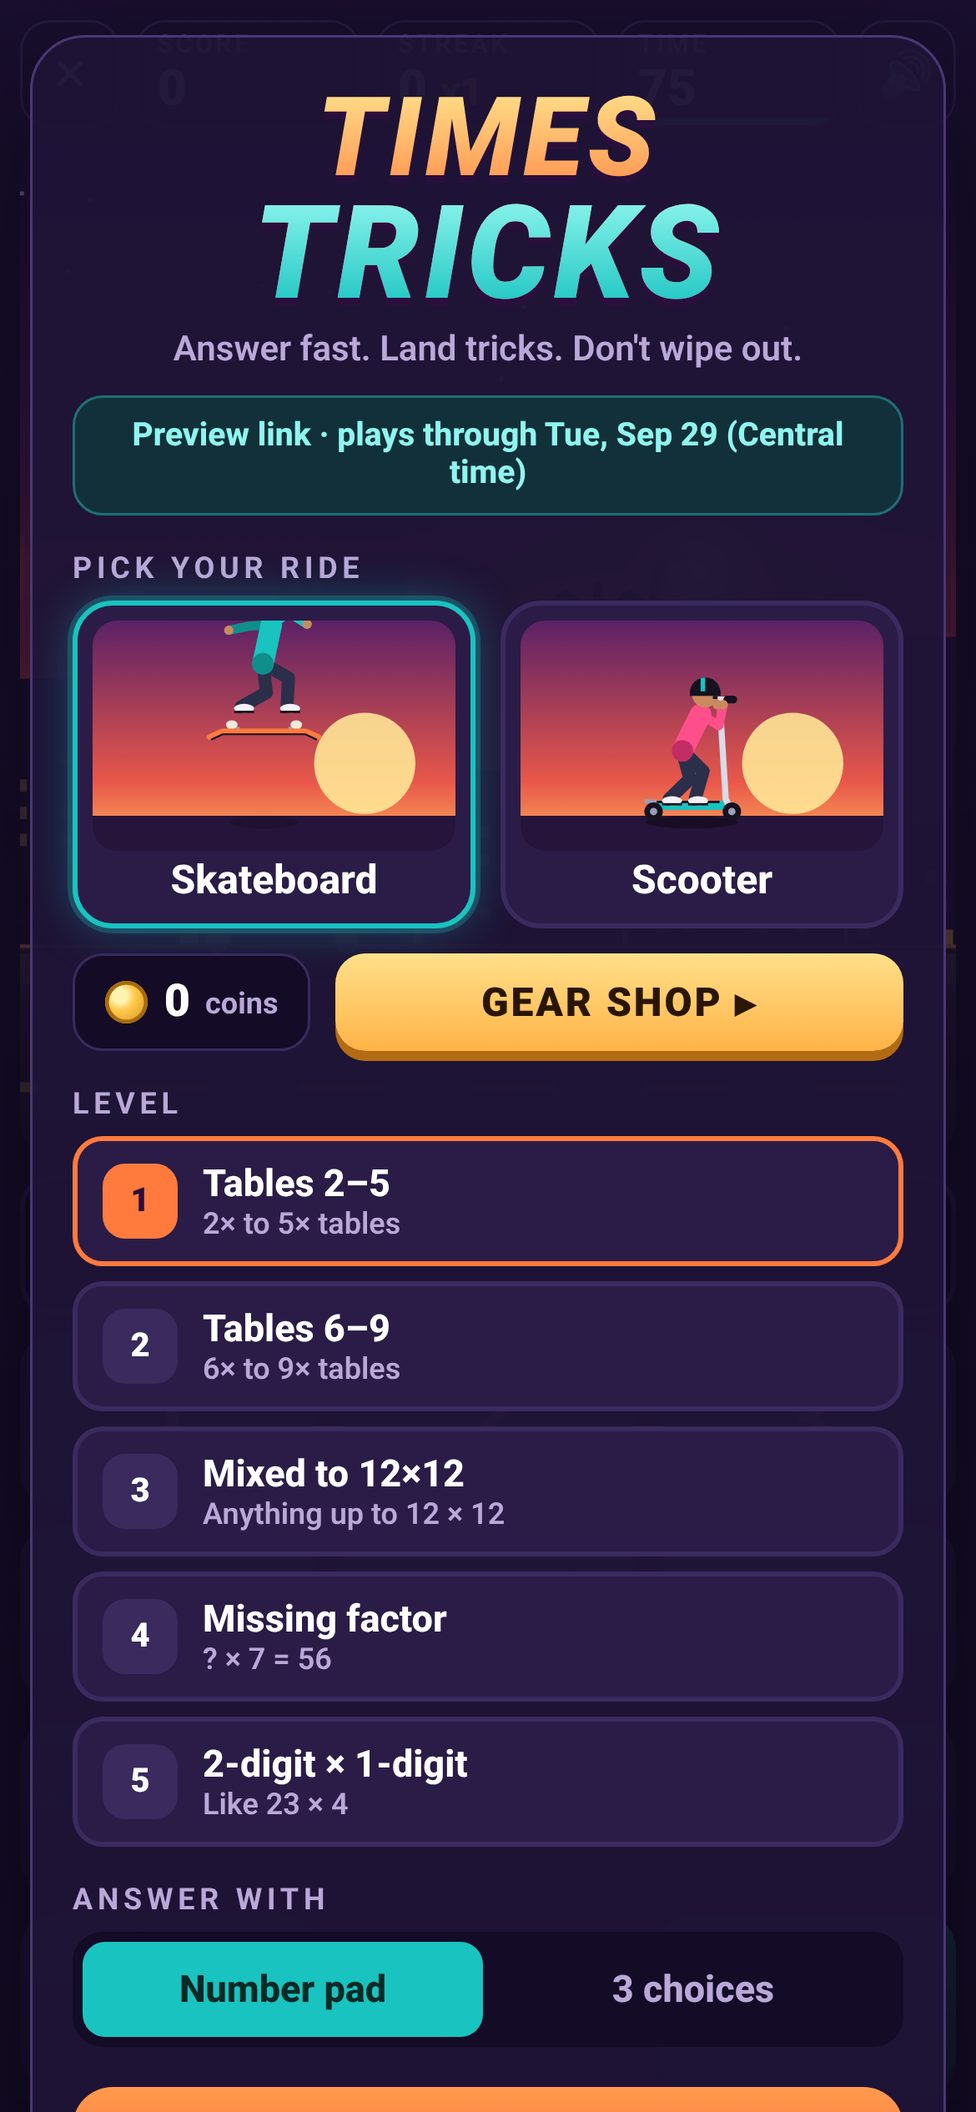
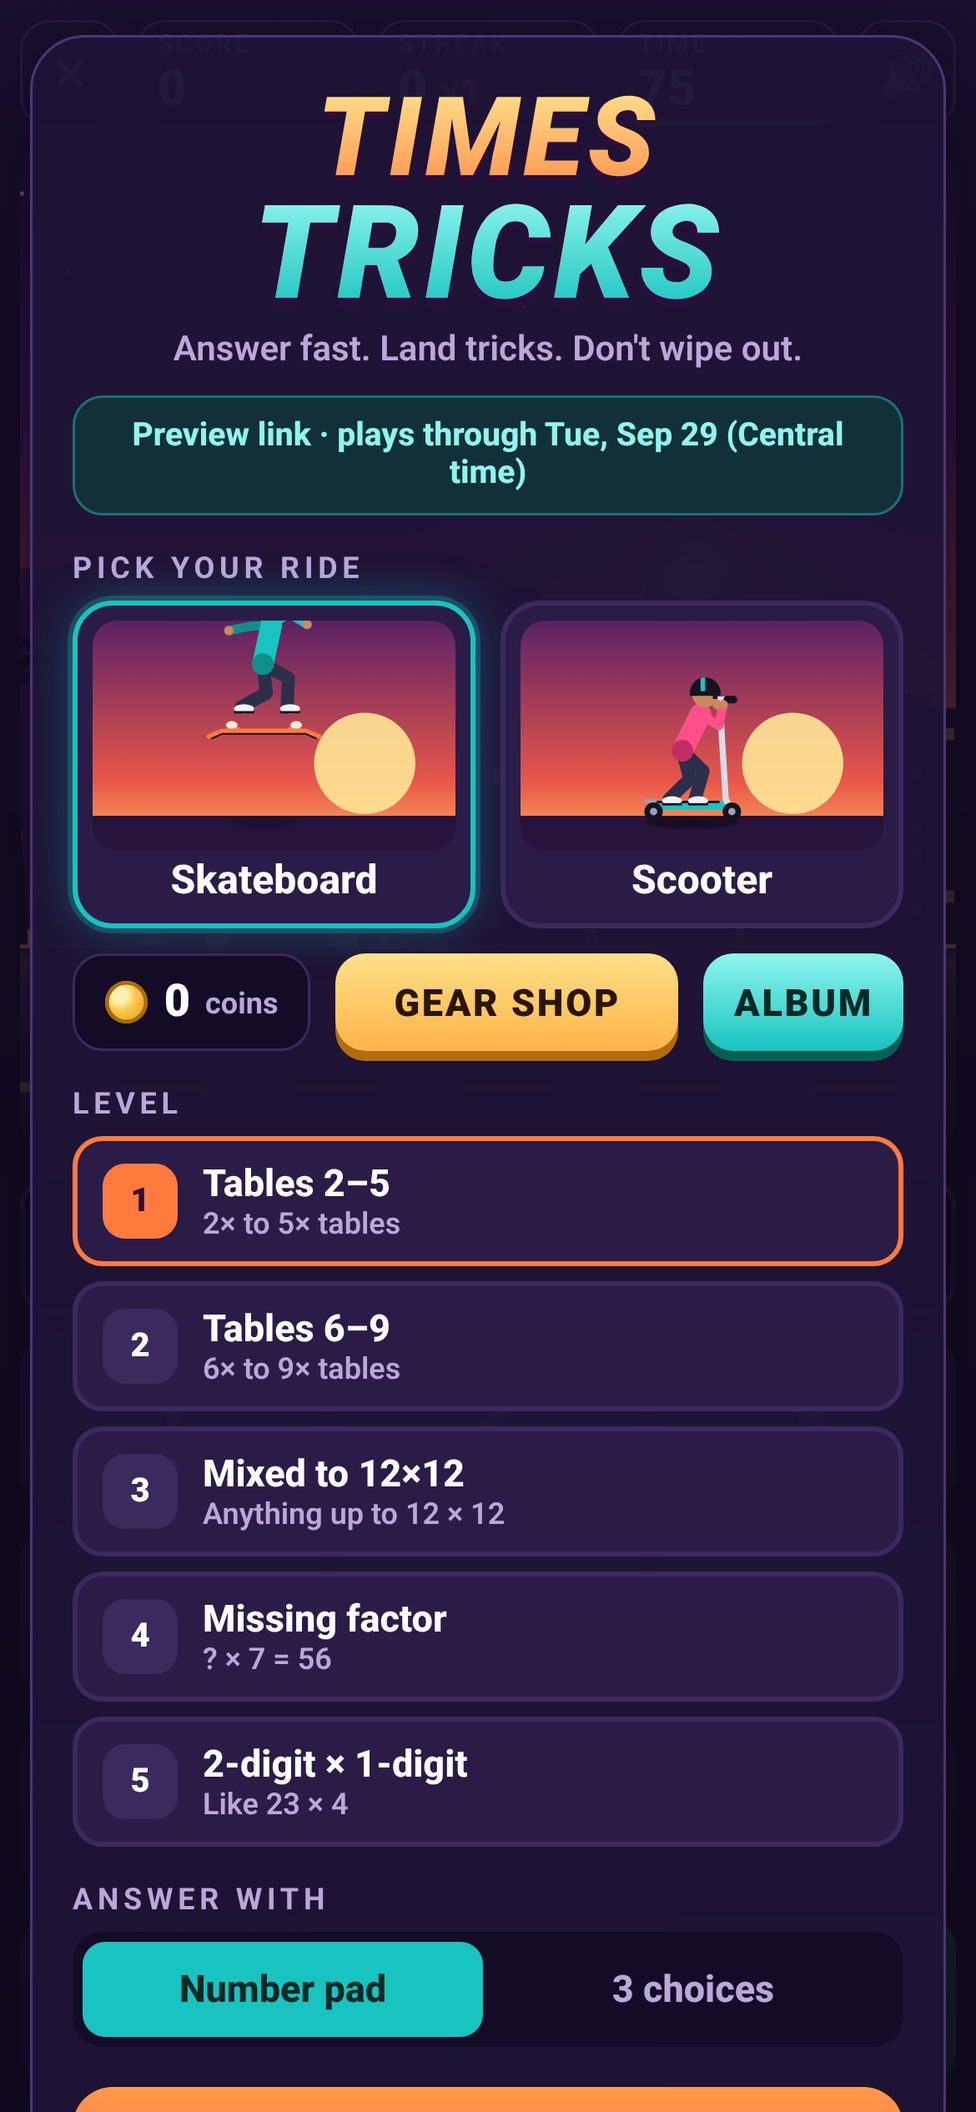
Snapshot album: streak 5/10/15/20 photo cards with unique tricks, album view, save/share, delete; cache-bust v=5

Changed region(s): [[0.4, 0.4368, 0.9231, 0.5304], [0.0, 0.2496, 0.0308, 0.3432], [0.9538, 0.2808, 0.9846, 0.3432]]

diff --git a/game.js b/game.js
@@ -241,6 +241,8 @@
   };
   window.__tt = { G: G, settings: settings, LEVELS: LEVELS, RIDERS: RIDERS };
   window.__tt.forceGrind = false;
+  window.__tt.snap = function (streak) { return takeSnapshot(streak || 5, G.trick); };
+  window.__tt.album = function () { return getAlbum().map(function (e) { return { id: e.id, rider: e.rider, trick: e.trick, streak: e.streak, level: e.level, kb: Math.round(e.img.length * 0.75 / 1024) }; }); };
   window.__tt.gearApi = function () { return { coins: getCoins(), gear: gear, stats: getStats(), look: lookFor(rider()), GEAR: GEAR }; };
 
   function level() { return LEVELS[settings.level - 1]; }
@@ -578,10 +580,11 @@
     }
     return pose;
   }
-  function drawRail(rx) {
-    var a = rx + (G.railL - G.grindTrav), b = rx + (G.railR - G.grindTrav), y = GROUND_Y - GRIND.railH;
+  function drawRail(rx) { drawRailAt(rx + (G.railL - G.grindTrav), rx + (G.railR - G.grindTrav), clamp(G.trickT / 0.08, 0, 1)); }
+  function drawRailAt(a, b, alpha) {
+    var y = GROUND_Y - GRIND.railH;
     if (b < -20 || a > VW + 20) return;
-    ctx.save(); ctx.globalAlpha = clamp(G.trickT / 0.08, 0, 1);
+    ctx.save(); ctx.globalAlpha = alpha;
     ctx.fillStyle = 'rgba(0,0,0,0.3)'; ctx.fillRect(a, GROUND_Y - 2, b - a, 3);
     ctx.fillStyle = '#1a1030';
     var n = Math.max(2, Math.round((b - a) / 55));
@@ -666,6 +669,7 @@
     G.coinParts.answers += COINS.perCorrect; G.coinParts.streak += (m - 1) * COINS.perMultStep;
     G.gateState = 'good'; G.boostSpeed = Math.max(G.speed, G.gateDist / 0.38);
     if (G.trick.grind) startGrind();
+    if (SNAP_STREAKS.indexOf(G.streak) >= 0) { var snapStreak = G.streak, perf = G.trick; setTimeout(function () { takeSnapshot(snapStreak, perf); }, 60); }
     el.banner.className = 'right'; flashDisplay('flashR');
     if (settings.mode === 'choices') el.choices.forEach(function (b) { if (Number(b.textContent) === p.answer) b.classList.add('good'); });
     pop('+' + pts + '  ' + G.trick.name, '#ffc94d');
@@ -826,6 +830,7 @@
   document.addEventListener('keydown', function (e) {
     if (G.screen === 'expired') return;
     if (G.screen === 'shop') { if (e.key === 'Escape') closeShop(); return; }
+    if (G.screen === 'album') { if (e.key === 'Escape') { if (viewing) closeViewer(); else closeAlbum(); } return; }
     if (G.screen === 'menu' && e.key === 'Enter') { startRound(); e.preventDefault(); return; }
     if (G.screen === 'end' && e.key === 'Enter') { startRound(); e.preventDefault(); return; }
     if (G.screen !== 'play') return;
@@ -882,7 +887,7 @@
       b.classList.toggle('sel', id === settings.level); b.querySelector('.b').textContent = best ? 'BEST ' + best : '';
     });
     $$('#modePick button').forEach(function (b) { b.classList.toggle('sel', b.getAttribute('data-mode') === settings.mode); });
-    $('#coinTotal').textContent = getCoins();
+    $('#coinTotal').textContent = getCoins(); refreshAlbumCount();
     var m = getMissed(), n = Object.keys(m).filter(function (k) { return level().fits(m[k]); }).length;
     $('#practiceNote').textContent = n ? n + ' tricky fact' + (n > 1 ? 's' : '') + ' saved for this level — they’ll show up more often.' : 'Missed facts get saved and come back more often until you nail them.';
   }
@@ -965,6 +970,151 @@
   $('#shopBack').addEventListener('click', closeShop);
   $('#shopClose').addEventListener('click', closeShop);
 
+
+  // ---------- snapshot album ----------
+  // At streaks in SNAP_STREAKS a photo card of the rider (equipped gear, frozen mid-trick) is drawn on an
+  // offscreen canvas, saved as a JPEG data URL in localStorage (tt_album, max ALBUM_CAP, oldest dropped).
+  // The trick on the card is always one not yet in the album for that ride; once all are used,
+  // it just avoids repeating the most recent one. Nothing is uploaded anywhere.
+  var SNAP_STREAKS = [5, 10, 15, 20], ALBUM_CAP = 30, SNAP_W = 600, SNAP_H = 800, SNAP_Q = 0.72;
+  function getAlbum() { try { var a = JSON.parse(localStorage.getItem('tt_album') || '[]'); return Array.isArray(a) ? a : []; } catch (e) { return []; } }
+  function saveAlbum(a) {
+    while (a.length > ALBUM_CAP) a.shift();
+    for (;;) {
+      try { localStorage.setItem('tt_album', JSON.stringify(a)); return true; }
+      catch (e) { if (a.length <= 1) return false; a.shift(); }   // storage full: drop oldest and retry
+    }
+  }
+  function rideTricks(r) { return r.tricks.concat(r.grinds || []); }
+  function chooseSnapTrick(r, performed, album) {
+    var all = rideTricks(r), mine = album.filter(function (e) { return e.rider === r.id; });
+    var used = mine.map(function (e) { return e.trick; });
+    var opts = all.filter(function (t) { return used.indexOf(t.id) < 0; });
+    if (!opts.length) { var lastId = mine.length ? mine[mine.length - 1].trick : null; opts = all.filter(function (t) { return t.id !== lastId; }); }
+    for (var i = 0; i < opts.length; i++) if (performed && opts[i].id === performed.id) return opts[i];
+    return pick(opts);
+  }
+  function peakPose(trick) { return trick.grind ? grindPose(trick, 0.46) : trickPose(trick.id, trick.id === 'ollie' || trick.id === 'hop' ? 0.42 : 0.5); }
+  function fmtDate(ms) { try { return new Date(ms).toLocaleDateString('en-US', { month: 'short', day: 'numeric', year: 'numeric' }); } catch (e) { var d = new Date(ms); return (d.getMonth() + 1) + '/' + d.getDate() + '/' + d.getFullYear(); } }
+  function renderSnapCard(dressedRider, trick, entry) {
+    var W = SNAP_W, H = SNAP_H, cnv = document.createElement('canvas'); cnv.width = W; cnv.height = H;
+    var x = cnv.getContext('2d');
+    var saved = { ctx: ctx, VW: VW, TOP: TOP, wx: G.worldX, parts: G.particles };
+    var LVW = 260, k = W / LVW, LVH = H / k, rx = LVW * 0.5;
+    try {
+      ctx = x; VW = LVW; TOP = 400 - LVH; G.worldX = 400 + Math.random() * 2600; G.particles = [];
+      x.setTransform(k, 0, 0, k, 0, -TOP * k);
+      drawSky(entry.t / 1000);
+      drawCity(farCity, 0.08, GROUND_Y - 10, '#3d1d52', 'rgba(255,190,120,0.35)', 0);
+      drawCity(nearCity, 0.25, GROUND_Y - 4, '#26143a', 'rgba(255,210,130,0.55)', 300);
+      drawProps(); drawLamps(); drawGround();
+      // motion streaks
+      x.strokeStyle = 'rgba(255,255,255,0.28)'; x.lineWidth = 1.6; x.lineCap = 'round';
+      for (var i = 0; i < 6; i++) { var ly = GROUND_Y - 40 - i * 16, lx = rx - 70 - (i % 3) * 18; x.beginPath(); x.moveTo(lx, ly); x.lineTo(lx - 40 - (i % 2) * 20, ly); x.stroke(); }
+      if (trick.grind) {
+        drawRailAt(rx - 100, rx + 100, 1);
+        x.fillStyle = '#ffe28a';
+        for (var s = 0; s < 18; s++) { var sx = rx - 14 - Math.random() * 40, sy = GROUND_Y - GRIND.railH - Math.random() * 14; x.fillRect(sx, sy, 1.6, 1.6); }
+      }
+      drawRider(x, rx, GROUND_Y, RIDER_SCALE * 1.05, dressedRider, peakPose(trick));
+    } finally { ctx = saved.ctx; VW = saved.VW; TOP = saved.TOP; G.worldX = saved.wx; G.particles = saved.parts; }
+    // overlays in pixel space
+    x.setTransform(1, 0, 0, 1, 0, 0);
+    var tg = x.createLinearGradient(0, 0, 0, 200); tg.addColorStop(0, 'rgba(20,10,38,0.75)'); tg.addColorStop(1, 'rgba(20,10,38,0)'); x.fillStyle = tg; x.fillRect(0, 0, W, 200);
+    var bg = x.createLinearGradient(0, H - 190, 0, H); bg.addColorStop(0, 'rgba(20,10,38,0)'); bg.addColorStop(0.45, 'rgba(20,10,38,0.8)'); bg.addColorStop(1, 'rgba(20,10,38,0.95)'); x.fillStyle = bg; x.fillRect(0, H - 190, W, 190);
+    // streak badge
+    var bgrad = x.createLinearGradient(0, 28, 0, 100); bgrad.addColorStop(0, '#ffb35c'); bgrad.addColorStop(1, '#ff4f8b');
+    x.save(); x.shadowColor = 'rgba(0,0,0,0.45)'; x.shadowBlur = 14; x.shadowOffsetY = 4;
+    roundRectC(x, 28, 28, 300, 74, 18); x.fillStyle = bgrad; x.fill(); x.restore();
+    x.lineWidth = 3; x.strokeStyle = 'rgba(255,255,255,0.8)'; roundRectC(x, 28, 28, 300, 74, 18); x.stroke();
+    x.fillStyle = '#fff'; x.font = 'italic 900 46px ' + fontFam; x.textBaseline = 'middle'; x.textAlign = 'center';
+    x.fillText('STREAK ' + entry.streak, 178, 67);
+    // trick name
+    x.textAlign = 'left'; x.font = 'italic 900 50px ' + fontFam; x.lineWidth = 8; x.strokeStyle = '#1a1030'; x.lineJoin = 'round';
+    var tn = trick.name; while (x.measureText(tn).width > W - 60 && parseInt(x.font.match(/(\d+)px/)[1], 10) > 26) x.font = 'italic 900 ' + (parseInt(x.font.match(/(\d+)px/)[1], 10) - 4) + 'px ' + fontFam;
+    x.strokeText(tn, 30, 150); x.fillStyle = '#ffc94d'; x.fillText(tn, 30, 150);
+    // footer
+    var lg = x.createLinearGradient(0, H - 110, 0, H - 70); lg.addColorStop(0, '#ffe08a'); lg.addColorStop(1, '#ff7a3d');
+    x.font = 'italic 900 34px ' + fontFam; x.fillStyle = lg; x.fillText('TIMES', 30, H - 92);
+    var w1 = x.measureText('TIMES ').width, lg2 = x.createLinearGradient(0, H - 110, 0, H - 70); lg2.addColorStop(0, '#8ff5ee'); lg2.addColorStop(1, '#19c3c0');
+    x.fillStyle = lg2; x.fillText('TRICKS', 30 + w1, H - 92);
+    x.font = '700 22px ' + fontFam; x.fillStyle = '#e6dcf7';
+    x.fillText(fmtDate(entry.t) + '  ·  Level ' + entry.level + ': ' + entry.levelName, 30, H - 52);
+    x.textAlign = 'right'; x.font = '800 20px ' + fontFam; x.fillStyle = '#b9a8d8'; x.fillText(dressedRider.name.toUpperCase(), W - 30, H - 92);
+    // frame
+    x.lineWidth = 4; x.strokeStyle = 'rgba(255,255,255,0.35)'; roundRectC(x, 10, 10, W - 20, H - 20, 22); x.stroke();
+    return cnv.toDataURL('image/jpeg', SNAP_Q);
+  }
+  function takeSnapshot(streak, performed) {
+    var r = rider(), album = getAlbum(), trick = chooseSnapTrick(r, performed, album), now = Date.now();
+    var entry = { id: now.toString(36) + Math.random().toString(36).slice(2, 6), t: now, rider: r.id, trick: trick.id, trickName: trick.name, streak: streak, level: settings.level, levelName: level().name };
+    try { entry.img = renderSnapCard(dress(r), trick, entry); } catch (e) { console.warn('snapshot failed', e); return null; }
+    album.push(entry);
+    if (!saveAlbum(album)) return null;
+    showSnapToast(); refreshAlbumCount();
+    return entry;
+  }
+  var toastTimer = null;
+  function showSnapToast() {
+    var t = $('#snapToast'); t.classList.add('show'); clearTimeout(toastTimer);
+    toastTimer = setTimeout(function () { t.classList.remove('show'); }, 1600);
+  }
+  function refreshAlbumCount() { var n = getAlbum().length; $('#albumCount').textContent = n; $('#albumCount').classList.toggle('hidden', !n); }
+
+  // album screens
+  function openAlbum() {
+    if (pilotExpired()) { showPilotEnded(); return; }
+    G.screen = 'album'; el.menu.classList.remove('show'); $('#album').classList.add('show'); buildAlbum();
+  }
+  function closeAlbum() { closeViewer(); $('#album').classList.remove('show'); toMenu(); }
+  function buildAlbum() {
+    var a = getAlbum().slice().reverse(), grid = $('#albumGrid'); grid.innerHTML = '';
+    $('#albumSub').textContent = a.length ? a.length + ' of ' + ALBUM_CAP + ' snapshots · newest first' : '';
+    $('#albumEmpty').classList.toggle('hidden', a.length > 0);
+    a.forEach(function (e) {
+      var b = document.createElement('button'); b.className = 'snap'; b.setAttribute('data-id', e.id);
+      var im = document.createElement('img'); im.src = e.img; im.alt = 'Streak ' + e.streak + ' ' + e.trickName; b.appendChild(im);
+      var cap = document.createElement('span'); cap.textContent = 'STREAK ' + e.streak + ' · ' + e.trickName; b.appendChild(cap);
+      b.addEventListener('click', function () { openViewer(e.id); });
+      grid.appendChild(b);
+    });
+  }
+  var viewing = null, delArmed = false, delTimer = null;
+  function openViewer(id) {
+    var e = getAlbum().filter(function (x) { return x.id === id; })[0]; if (!e) return;
+    viewing = e; delArmed = false; $('#delSnap').textContent = 'DELETE'; $('#delSnap').classList.remove('armed');
+    $('#viewImg').src = e.img;
+    $('#viewCap').textContent = 'Streak ' + e.streak + ' · ' + e.trickName + ' · ' + fmtDate(e.t) + ' · Level ' + e.level;
+    $('#saveHint').textContent = 'Tip: you can also press and hold the picture to save it.';
+    $('#viewer').classList.add('show');
+  }
+  function closeViewer() { $('#viewer').classList.remove('show'); viewing = null; }
+  function dataURLtoBlob(u) { var p = u.split(','), bin = atob(p[1]), arr = new Uint8Array(bin.length); for (var i = 0; i < bin.length; i++) arr[i] = bin.charCodeAt(i); return new Blob([arr], { type: 'image/jpeg' }); }
+  function saveViewing() {
+    if (!viewing) return;
+    var name = 'times-tricks-streak' + viewing.streak + '-' + viewing.trick + '.jpg', file = null;
+    try { file = new File([dataURLtoBlob(viewing.img)], name, { type: 'image/jpeg' }); } catch (e) { file = null; }
+    if (file && navigator.canShare && navigator.share && navigator.canShare({ files: [file] })) {
+      navigator.share({ files: [file], title: 'Times Tricks snapshot' }).catch(function () {});  // share sheet → "Save Image"
+      return;
+    }
+    var a = document.createElement('a'); a.href = viewing.img; a.download = name; document.body.appendChild(a); a.click(); a.remove();
+    if (/iPhone|iPad|iPod/.test(navigator.userAgent)) $('#saveHint').textContent = 'Press and hold the picture, then tap “Save to Photos”.';
+    else $('#saveHint').textContent = 'Saved to your downloads.';
+  }
+  function deleteViewing() {
+    if (!viewing) return;
+    if (!delArmed) { delArmed = true; $('#delSnap').textContent = 'TAP AGAIN TO DELETE'; $('#delSnap').classList.add('armed'); clearTimeout(delTimer); delTimer = setTimeout(function () { delArmed = false; $('#delSnap').textContent = 'DELETE'; $('#delSnap').classList.remove('armed'); }, 3000); return; }
+    var id = viewing.id; saveAlbum(getAlbum().filter(function (x) { return x.id !== id; }));
+    closeViewer(); buildAlbum(); refreshAlbumCount();
+  }
+  $('#albumBtn').addEventListener('click', openAlbum);
+  $('#albumBack').addEventListener('click', closeAlbum);
+  $('#albumClose').addEventListener('click', closeAlbum);
+  $('#viewBack').addEventListener('click', closeViewer);
+  $('#saveSnap').addEventListener('click', saveViewing);
+  $('#delSnap').addEventListener('click', deleteViewing);
+
   // ---------- loop ----------
   var last = performance.now();
   function frame(now) {
@@ -1000,7 +1150,7 @@
   function pilotExpired() { return !!pilot && Date.now() > pilot.until.ms; }
   function showPilotEnded() {
     G.screen = 'expired'; setPhase('idle');
-    [el.menu, el.end, el.pause, $('#shop')].forEach(function (o) { o.classList.remove('show'); });
+    [el.menu, el.end, el.pause, $('#shop'), $('#album'), $('#viewer')].forEach(function (o) { o.classList.remove('show'); });
     el.banner.className = 'hide'; $('#pilotEnded').classList.add('show');
   }
   function pilotLabel() {

diff --git a/index.html b/index.html
@@ -10,7 +10,7 @@
 <title>Times Tricks — Multiplication Street Runner</title>
 <link rel="icon" href="icon.svg" type="image/svg+xml" />
 <link rel="apple-touch-icon" href="apple-touch-icon.png" />
-<link rel="stylesheet" href="style.css?v=4" />
+<link rel="stylesheet" href="style.css?v=5" />
 </head>
 <body>
 <div id="app">
@@ -24,6 +24,7 @@
 
   <section id="scene">
     <canvas id="cv"></canvas>
+    <div id="snapToast" class="snapToast">📸 Snapshot saved!</div>
     <div id="banner"><div id="prompt">&nbsp;</div><div id="gateBar"><i></i></div></div>
   </section>
 
@@ -53,7 +54,8 @@
       <div id="riderPick" class="riders"></div>
       <div class="coinRow">
         <div class="coinPill"><i class="coin"></i><b id="coinTotal">0</b><small>coins</small></div>
-        <button id="shopBtn" class="shopBtn">GEAR SHOP ▸</button>
+        <button id="shopBtn" class="shopBtn">GEAR SHOP</button>
+        <button id="albumBtn" class="shopBtn albumBtn">ALBUM <span id="albumCount" class="cnt hidden">0</span></button>
       </div>
 
       <h2>Level</h2>
@@ -117,11 +119,36 @@
     </div>
   </div>
 
+  <!-- Snapshot album (stored only on this device) -->
+  <div id="album" class="overlay">
+    <div class="panel shopPanel">
+      <div class="shopHead">
+        <h2 class="endTitle">ALBUM</h2>
+        <button id="albumClose" class="hbtn" aria-label="Close album">✕</button>
+      </div>
+      <p id="albumSub" class="note shopHint"></p>
+      <p id="albumEmpty" class="note albumEmpty">No snapshots yet. Hit a <b>5 streak</b> in a round and your rider's best trick gets photographed here. Another at 10, 15 and 20!</p>
+      <div id="albumGrid" class="albumGrid"></div>
+      <button id="albumBack" class="big alt">BACK</button>
+    </div>
+  </div>
+  <div id="viewer" class="overlay viewer">
+    <div class="viewWrap">
+      <img id="viewImg" alt="Snapshot" />
+      <p id="viewCap" class="viewCap"></p>
+      <div class="viewBtns">
+        <button id="saveSnap" class="big">SAVE TO PHOTOS</button>
+        <div class="viewRow"><button id="delSnap" class="big alt del">DELETE</button><button id="viewBack" class="big alt">BACK</button></div>
+      </div>
+      <p id="saveHint" class="note"></p>
+    </div>
+  </div>
+
   <!-- Pause -->
   <div id="pause" class="overlay">
     <div class="panel small"><h2 class="endTitle">PAUSED</h2><button id="resumeBtn" class="big">RESUME ▶</button></div>
   </div>
 </div>
-<script src="game.js?v=4"></script>
+<script src="game.js?v=5"></script>
 </body>
 </html>

diff --git a/style.css b/style.css
@@ -169,3 +169,29 @@ h2{font-size:12px;letter-spacing:.16em;color:var(--muted);margin:14px 0 6px;text
 .ibtn.buy:disabled{background:#3a2a5e;color:#8f80ad;box-shadow:none}
 .ibtn.equip{background:linear-gradient(#26d4b4,#12a08c);color:#062a26;box-shadow:0 3px 0 #0a5f53}
 .ibtn:active:not(:disabled){transform:translateY(2px);box-shadow:none}
+
+/* Snapshot album */
+.snapToast{position:absolute;left:50%;bottom:14px;transform:translate(-50%,20px);opacity:0;pointer-events:none;
+  background:rgba(21,12,38,.9);border:2px solid var(--gold);color:#fff;font-weight:900;font-size:15px;padding:7px 14px;border-radius:999px;
+  transition:opacity .2s,transform .2s;white-space:nowrap}
+.snapToast.show{opacity:1;transform:translate(-50%,0)}
+.albumBtn{flex:0 0 auto;padding:10px 12px;background:linear-gradient(#8ff5ee,#19c3c0);box-shadow:0 4px 0 #0a5f53;color:#062a26;display:flex;align-items:center;gap:6px}
+.albumBtn:active{box-shadow:0 1px 0 #0a5f53}
+.cnt{background:#062a26;color:#8ff5ee;border-radius:999px;font-size:12px;padding:1px 7px}
+.coinRow .shopBtn{font-size:15px}
+.albumGrid{display:grid;grid-template-columns:1fr 1fr;gap:8px}
+.snap{border:2px solid #3a2a5e;background:var(--panel2);border-radius:14px;padding:5px;display:flex;flex-direction:column;gap:4px}
+.snap img{width:100%;aspect-ratio:3/4;object-fit:cover;border-radius:9px;display:block}
+.snap span{font-size:12px;font-weight:900;color:var(--gold);text-align:left;white-space:nowrap;overflow:hidden;text-overflow:ellipsis}
+.albumEmpty{font-size:15px;line-height:1.45;padding:18px 6px}
+.viewer{z-index:30;background:rgba(10,5,20,.96);align-items:center}
+.viewWrap{width:100%;max-width:440px;margin:auto 0;display:flex;flex-direction:column;align-items:center}
+#viewImg{width:auto;max-width:100%;max-height:calc(100dvh - 250px);border-radius:16px;display:block;box-shadow:0 12px 40px rgba(0,0,0,.6);
+  -webkit-touch-callout:default;-webkit-user-select:auto;user-select:auto}
+.viewCap{color:var(--muted);font-weight:700;font-size:13px;text-align:center;margin:8px 0 0}
+.viewBtns{width:100%}
+.viewBtns .big{margin-top:10px}
+.viewRow{display:flex;gap:10px}
+.viewRow .big{flex:1}
+.big.del{background:#4a1d33;box-shadow:0 5px 0 #2a0f1d;color:#ffb3c6}
+.big.del.armed{background:#c7283a;color:#fff}

diff --git a/README.md b/README.md
@@ -53,10 +53,17 @@ Everything is data in `game.js`:
 - **New category:** add to `GEAR_CATS`. A category with `rider: '<id>'` applies to that ride; set `gearCat` on the rider.
 - **Coin tuning:** the `COINS` object.
 
+## Snapshot album
+
+- Hitting a **5, 10, 15 or 20 streak** in a round takes a snapshot: a 600×800 photo card of the rider in their equipped gear, frozen at the peak of a trick, with a STREAK badge, trick name, date and level. A small "📸 Snapshot saved!" toast shows and play carries on.
+- The trick on the card is always one that isn't in the album yet for that ride (4 tricks + 2 grinds each). Once all six are used it only avoids repeating the most recent one.
+- **ALBUM** on the start screen shows the grid. Tap a card to open it full screen, then **Save to Photos** (opens the iOS/Android share sheet with the image, where "Save Image" puts it in Photos; on desktop it downloads) or **Delete** (tap twice). Press-and-hold on the picture also works on iPhone.
+- Cards are JPEG data URLs (~45 KB each) in `tt_album`, capped at 30 (oldest dropped, and also dropped if storage is full). Nothing is uploaded. Tune with `SNAP_STREAKS`, `ALBUM_CAP` and `SNAP_Q` in `game.js`.
+
 ## Saved in the browser (localStorage, `tt_` prefix)
 
 - Chosen rider, level, and answer mode
-- Coins (`tt_coins`), owned/equipped gear (`tt_gear`), milestone stats (`tt_stats`)
+- Coins (`tt_coins`), owned/equipped gear (`tt_gear`), milestone stats (`tt_stats`), snapshot album (`tt_album`)
 - Personal best per level (`tt_best_<level>`)
 - Missed facts (`tt_missed`): missed facts come back more often in later rounds until you get them right a few times. The end screen lists them under "Facts to practice".
 
